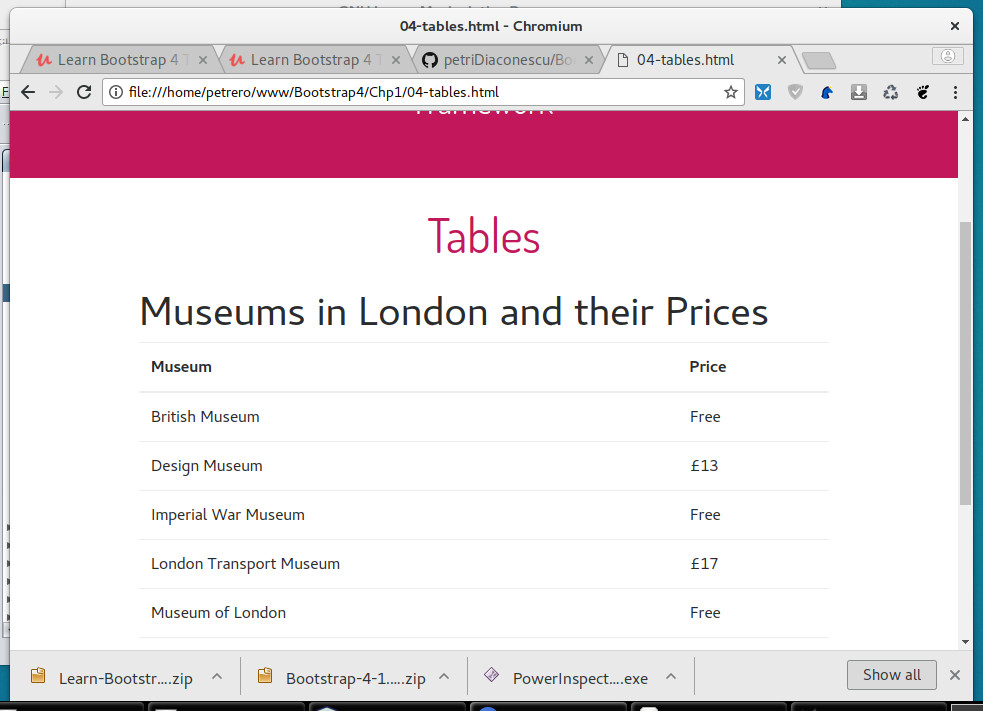
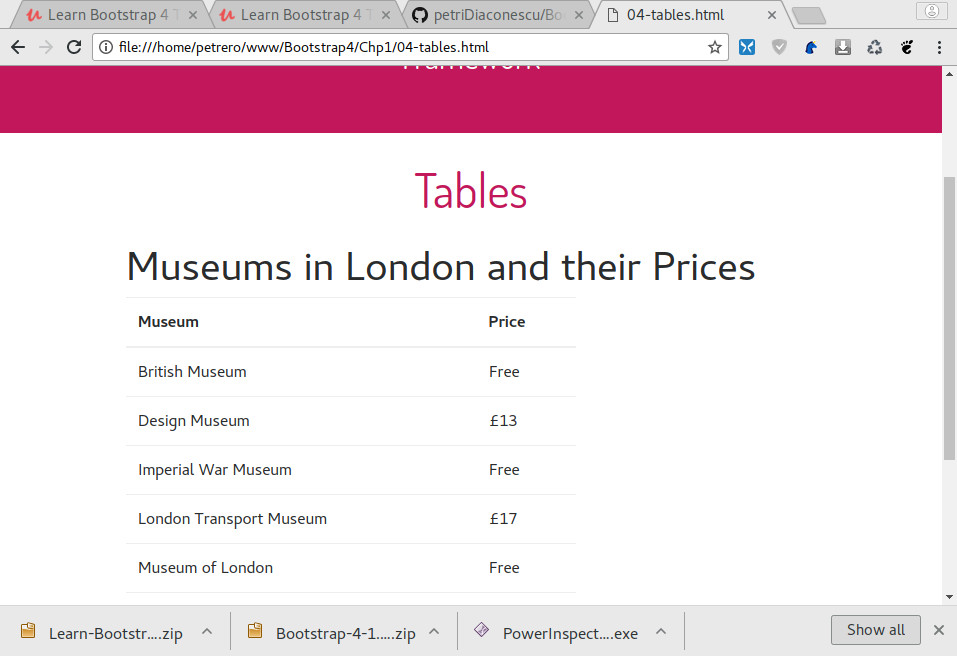
Table doesn't take the entire space available anymore

diff --git a/Chp1/04-tables.html b/Chp1/04-tables.html
@@ -26,53 +26,57 @@
       <div class="row">
         <div class="col-12">
         <h1>Museums in London and their Prices</h1>
-        <table class="table">
-            <caption>Museums in London</caption>
-            <thead>
-              <tr>
-                <th>Museum</th>
-                <th>Price</th>
-              </tr>
-            </thead>
-            <tbody>
-              <tr>
-                <td>British Museum</td>
-                <td>Free</td>
-              </tr>
-              <tr>
-                <td>Design Museum</td>
-                <td>£13</td>
-              </tr>
-              <tr>
-                <td>Imperial War Museum</td>
-                <td>Free</td>
-              </tr>
-              <tr>
-                <td>London Transport Museum</td>
-                <td>£17</td>
-              </tr>
-              <tr>
-                <td>Museum of London</td>
-                <td>Free</td>
-              </tr>
-              <tr>
-                <td>Natural History Museum</td>
-                <td>Free</td>
-              </tr>
-              <tr>
-                <td>Royal Museums Greenwich</td>
-                <td>Free</td>
-              </tr>
-              <tr>
-                <td>Science Museum</td>
-                <td>Free</td>
-              </tr>
-              <tr>
-                <td>Victoria and Albert Museum</td>
-                <td>Free</td>
-              </tr>
-            </tbody>
-          </table>
+        <div class="row">
+          <div class="col-8">
+            <table class="table">
+                <caption>Museums in London</caption>
+                <thead>
+                  <tr>
+                    <th>Museum</th>
+                    <th>Price</th>
+                  </tr>
+                </thead>
+                <tbody>
+                  <tr>
+                    <td>British Museum</td>
+                    <td>Free</td>
+                  </tr>
+                  <tr>
+                    <td>Design Museum</td>
+                    <td>£13</td>
+                  </tr>
+                  <tr>
+                    <td>Imperial War Museum</td>
+                    <td>Free</td>
+                  </tr>
+                  <tr>
+                    <td>London Transport Museum</td>
+                    <td>£17</td>
+                  </tr>
+                  <tr>
+                    <td>Museum of London</td>
+                    <td>Free</td>
+                  </tr>
+                  <tr>
+                    <td>Natural History Museum</td>
+                    <td>Free</td>
+                  </tr>
+                  <tr>
+                    <td>Royal Museums Greenwich</td>
+                    <td>Free</td>
+                  </tr>
+                  <tr>
+                    <td>Science Museum</td>
+                    <td>Free</td>
+                  </tr>
+                  <tr>
+                    <td>Victoria and Albert Museum</td>
+                    <td>Free</td>
+                  </tr>
+                </tbody>
+              </table>
+            </div>
+          </div>  
         </div> 
       </div>
     </main>
